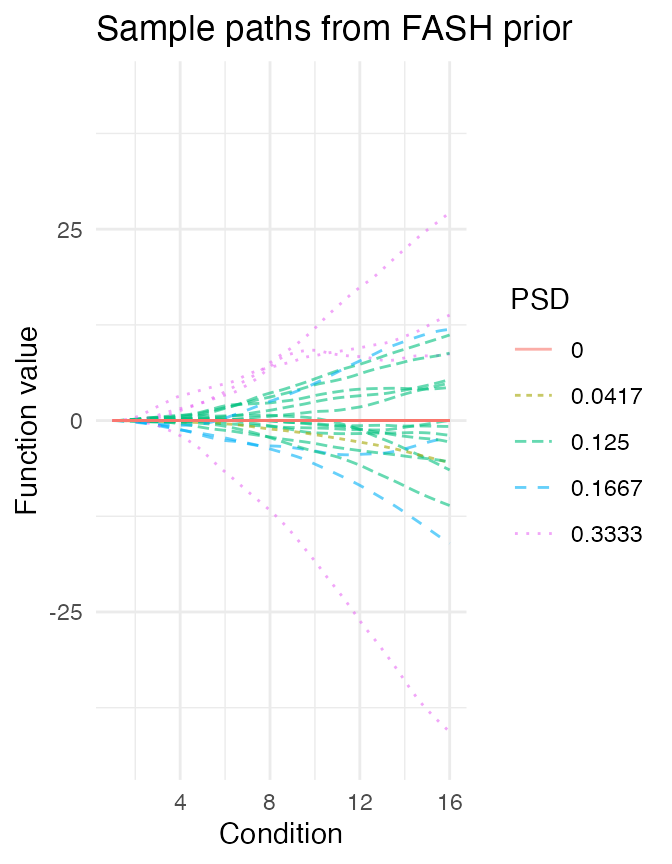
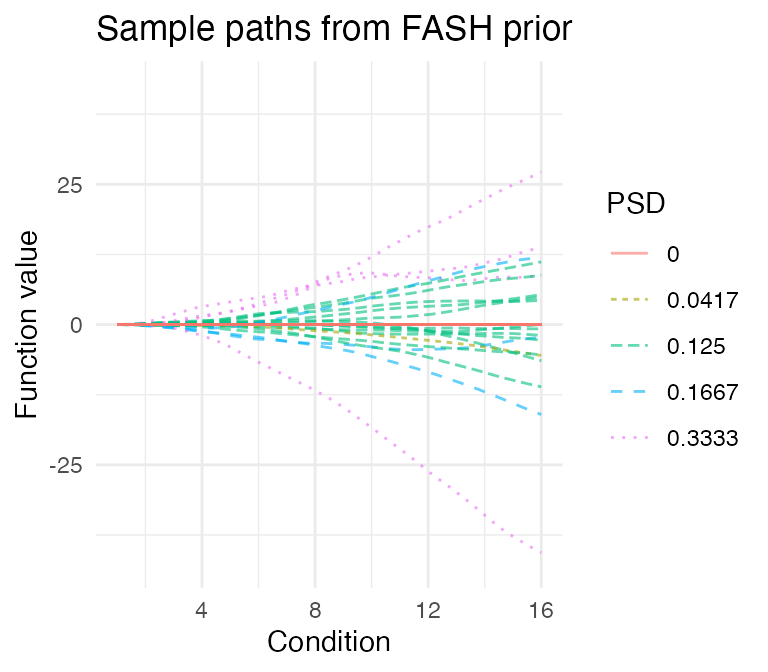
Rebuilt the vignette for the pkgdown site.

diff --git a/docs/articles/Basics.html b/docs/articles/Basics.html
@@ -424,10 +424,10 @@ space
 <math display="inline" xmlns="http://www.w3.org/1998/Math/MathML"><semantics><msub><mi>S</mi><mn>0</mn></msub><annotation encoding="application/x-tex">S_0</annotation></semantics></math>.</p>
 <div class="sourceCode" id="cb16"><pre class="downlit sourceCode r">
 <code class="sourceCode R"><span><span class="fu"><a href="../reference/visualize_fash_prior.html">visualize_fash_prior</a></span><span class="op">(</span><span class="va">fash_fit</span>, constraints <span class="op">=</span> <span class="st">"initial"</span><span class="op">)</span></span></code></pre></div>
-<p><img src="Basics_files/figure-html/unnamed-chunk-9-1.png" width="336"></p>
+<p><img src="Basics_files/figure-html/unnamed-chunk-9-1.png" width="384"></p>
 <div class="sourceCode" id="cb17"><pre class="downlit sourceCode r">
 <code class="sourceCode R"><span><span class="fu"><a href="../reference/visualize_fash_prior.html">visualize_fash_prior</a></span><span class="op">(</span><span class="va">fash_fit</span>, constraints <span class="op">=</span> <span class="st">"orthogonal"</span><span class="op">)</span></span></code></pre></div>
-<p><img src="Basics_files/figure-html/unnamed-chunk-9-2.png" width="336"></p>
+<p><img src="Basics_files/figure-html/unnamed-chunk-9-2.png" width="384"></p>
 <p>We can take a look at their posterior weights in each GP
 component:</p>
 <div class="sourceCode" id="cb18"><pre class="downlit sourceCode r">
